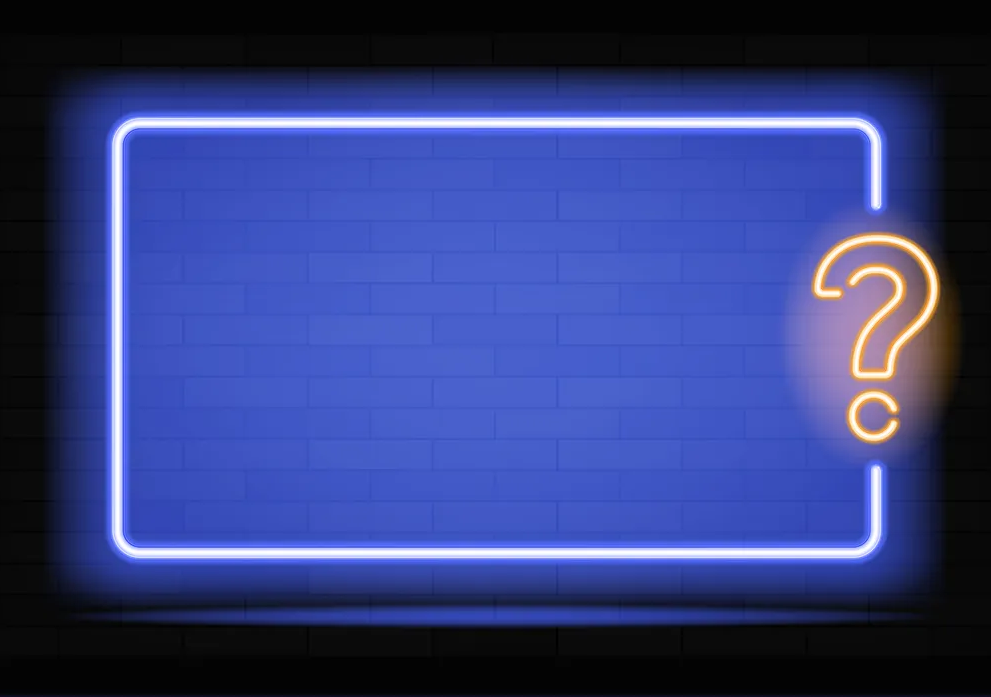
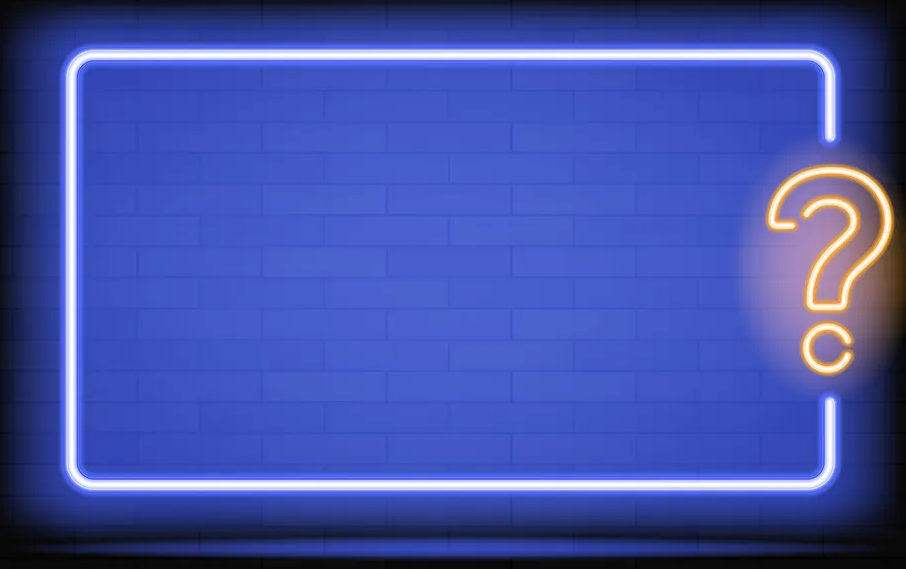
fixed css issues

diff --git a/src/components/QuestionCard.css b/src/components/QuestionCard.css
@@ -11,14 +11,15 @@
     position: relative;
     background-repeat: no-repeat;
     background-color: black;
+    background-size: contain;
+    max-width: 600px;
 
 }
 .question-container{
     position: absolute;
-    top: 173px;
-    left: 145px;
-    width: 65%;
-    
+    top: 33px;
+    left: 39px;
+    width: 65%;    
 }
 h2{
     color: aliceblue;
@@ -33,10 +34,28 @@ h2{
     display: block;
     text-align: left;
     margin-left: 80px;
-    margin-top: 20px;
     background-color: green;
     border-radius: 5px;
+    margin-top: 20px;
     color: white;
+    text-wrap: nowrap;
+}
+.fixed-bottom h2,
+.fixed-bottom button
+{
+    text-wrap: nowrap;
+    margin-top:  0px;
+}
+.fixed-bottom{
+    display: flex;
+    justify-content: space-between;
+    width: 80%; 
+    gap: 20px;
+    align-items: center;
+    margin-top: 200px;
+}
+.fixed-bottom h2{
+    width: fit-content;
 }
 .reload{
     margin-left: 45%;
@@ -48,4 +67,34 @@ h2{
     display: flex;
     text-align: center;
     width: 100%;
+}
+@media (max-width:780px) {
+    .main{
+        width: 100%;
+    
+    }
+    .question-container {
+        position: absolute;
+        top: 26px;
+        width: 86%;
+        left: 73px;
+    }
+    .options {
+        margin-left: 0;
+    }
+    h2 {
+        color: aliceblue;
+        margin-left: -14px;
+        font-size: 18px;
+        text-align: start;
+        width: 90%;
+    }
+    .fixed-bottom{
+        margin-top: 100px;
+    }
+    .reload {
+        margin-left: 0;
+        background-color: transparent;
+        border: 2px black solid;
+    }
 }
